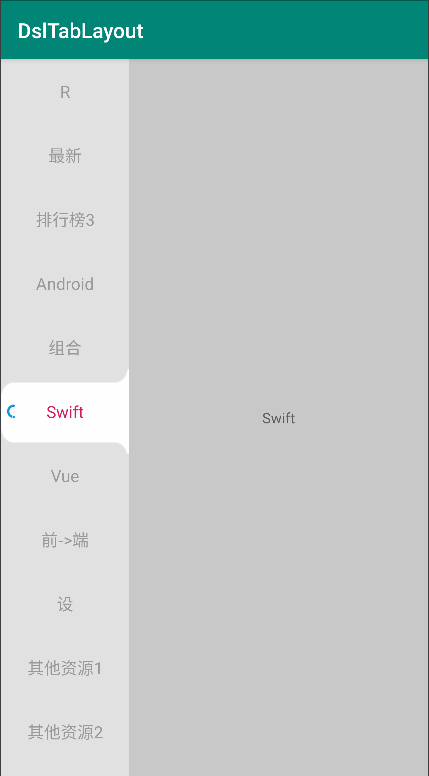
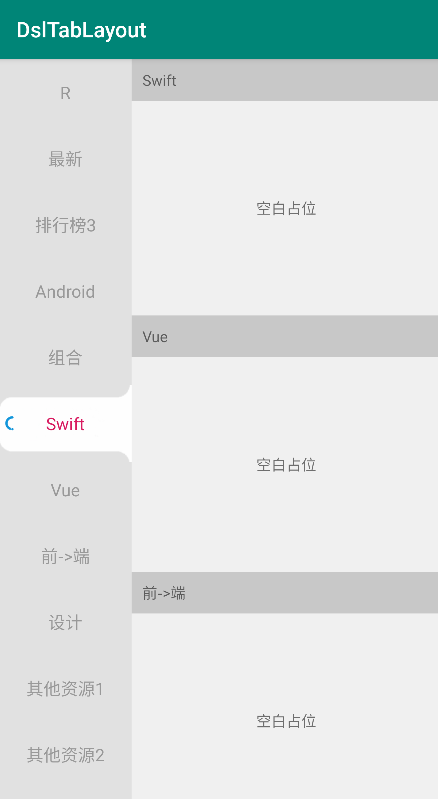
* update demo

diff --git a/Sample/src/main/java/com/angcyo/dsltablayout/demo/sample/VerticalHintActivity.kt b/Sample/src/main/java/com/angcyo/dsltablayout/demo/sample/VerticalHintActivity.kt
@@ -2,8 +2,14 @@ package com.angcyo.dsltablayout.demo.sample
 
 import android.os.Bundle
 import android.widget.TextView
+import androidx.recyclerview.widget.LinearLayoutManager
+import androidx.recyclerview.widget.RecyclerView
+import com.angcyo.dsladapter.eachChild
+import com.angcyo.dsladapter.initDslAdapter
+import com.angcyo.dsladapter.resetLayoutManager
 import com.angcyo.dsltablayout.demo.BaseActivity
 import com.angcyo.dsltablayout.demo.R
+import com.angcyo.dsltablayout.demo.dslitem.DslVerticalHintItem
 import com.angcyo.tablayout.DslTabLayout
 
 /**
@@ -24,11 +30,44 @@ class VerticalHintActivity : BaseActivity() {
             highlightHeightOffset = 20 * dpi
         }*/
 
-        val textView = find<TextView>(R.id.text_view)
+        val recyclerView = find<RecyclerView>(R.id.recycler_view)
+        recyclerView.apply {
+            resetLayoutManager("V")
+            initDslAdapter {
+                render {
+                    tabLayout.eachChild { index, child ->
+                        if (child is TextView) {
+                            DslVerticalHintItem()() {
+                                text = child.text
+                            }
+                        }
+                    }
+                }
+            }
+            addOnScrollListener(object : RecyclerView.OnScrollListener() {
+                override fun onScrolled(recyclerView: RecyclerView, dx: Int, dy: Int) {
+                    super.onScrolled(recyclerView, dx, dy)
+                    recyclerView.getChildAt(0)?.layoutParams?.let {
+                        if (it is RecyclerView.LayoutParams) {
+                            tabLayout.setCurrentItem(it.absoluteAdapterPosition)
+                        }
+                    }
+                }
+            })
+        }
+
         tabLayout.configTabLayoutConfig {
             onSelectItemView = { itemView, index, select, fromUser ->
                 if (select && itemView is TextView) {
-                    textView.text = itemView.text
+                    if (fromUser) {
+                        recyclerView?.layoutManager?.let {
+                            if (it is LinearLayoutManager) {
+                                it.scrollToPositionWithOffset(index, 0)
+                            } else {
+                                recyclerView.scrollToPosition(index)
+                            }
+                        }
+                    }
                 }
                 false
             }

diff --git a/Sample/src/main/java/com/angcyo/dsltablayout/demo/dslitem/DslCommonTabLayoutItem.kt b/Sample/src/main/java/com/angcyo/dsltablayout/demo/dslitem/DslCommonTabLayoutItem.kt
@@ -1,7 +1,10 @@
-package com.angcyo.dsltablayout.demo
+package com.angcyo.dsltablayout.demo.dslitem
 
 import com.angcyo.dsladapter.DslAdapterItem
 import com.angcyo.dsladapter.DslViewHolder
+import com.angcyo.dsltablayout.demo.R
+import com.angcyo.dsltablayout.demo.getDrawable2
+import com.angcyo.dsltablayout.demo.randomColor
 import com.angcyo.tablayout.DslTabLayout
 
 /**
@@ -10,9 +13,10 @@ import com.angcyo.tablayout.DslTabLayout
  * @author angcyo
  * @date 2019/11/23
  */
-class DslSlidingTabLayoutItem : DslAdapterItem() {
+class DslCommonTabLayoutItem : DslAdapterItem() {
+
     init {
-        itemLayoutId = R.layout.item_sliding_tab_layout
+        itemLayoutId = R.layout.item_common_tab_layout
     }
 
     override fun onItemBind(
@@ -23,7 +27,13 @@ class DslSlidingTabLayoutItem : DslAdapterItem() {
         super.onItemBind(itemHolder, itemPosition, adapterItem)
 
         itemHolder.v<DslTabLayout>(R.id.tab_layout)?.apply {
-            setBackgroundColor(randomColor())
+
+            if (itemLayoutId == R.layout.item_common_tab_layout2 ||
+                itemLayoutId == R.layout.item_common_vertical_tab_layout2
+            ) {
+                setBackgroundColor(randomColor())
+            }
+
             tabIndicator.indicatorDrawable =
                 itemHolder.itemView.context.getDrawable2(R.drawable.indicator_white_line)
         }

diff --git a/Sample/src/main/java/com/angcyo/dsltablayout/demo/dslitem/DslSegmentTabLayoutItem.kt b/Sample/src/main/java/com/angcyo/dsltablayout/demo/dslitem/DslSegmentTabLayoutItem.kt
@@ -1,7 +1,9 @@
-package com.angcyo.dsltablayout.demo
+package com.angcyo.dsltablayout.demo.dslitem
 
 import com.angcyo.dsladapter.DslAdapterItem
 import com.angcyo.dsladapter.DslViewHolder
+import com.angcyo.dsladapter.dpi
+import com.angcyo.dsltablayout.demo.R
 import com.angcyo.tablayout.DslTabLayout
 
 /**
@@ -10,10 +12,11 @@ import com.angcyo.tablayout.DslTabLayout
  * @author angcyo
  * @date 2019/11/23
  */
-class DslCommonTabLayoutItem : DslAdapterItem() {
+class DslSegmentTabLayoutItem : DslAdapterItem() {
 
     init {
-        itemLayoutId = R.layout.item_common_tab_layout
+        itemTopInsert = 10 * dpi
+        itemLayoutId = R.layout.item_segment_tab_layout
     }
 
     override fun onItemBind(
@@ -25,14 +28,6 @@ class DslCommonTabLayoutItem : DslAdapterItem() {
 
         itemHolder.v<DslTabLayout>(R.id.tab_layout)?.apply {
 
-            if (itemLayoutId == R.layout.item_common_tab_layout2 ||
-                itemLayoutId == R.layout.item_common_vertical_tab_layout2
-            ) {
-                setBackgroundColor(randomColor())
-            }
-
-            tabIndicator.indicatorDrawable =
-                itemHolder.itemView.context.getDrawable2(R.drawable.indicator_white_line)
         }
     }
 }

diff --git a/Sample/src/main/java/com/angcyo/dsltablayout/demo/dslitem/DslSlidingTabLayoutItem.kt b/Sample/src/main/java/com/angcyo/dsltablayout/demo/dslitem/DslSlidingTabLayoutItem.kt
@@ -1,8 +1,10 @@
-package com.angcyo.dsltablayout.demo
+package com.angcyo.dsltablayout.demo.dslitem
 
 import com.angcyo.dsladapter.DslAdapterItem
 import com.angcyo.dsladapter.DslViewHolder
-import com.angcyo.dsladapter.dpi
+import com.angcyo.dsltablayout.demo.R
+import com.angcyo.dsltablayout.demo.getDrawable2
+import com.angcyo.dsltablayout.demo.randomColor
 import com.angcyo.tablayout.DslTabLayout
 
 /**
@@ -11,11 +13,9 @@ import com.angcyo.tablayout.DslTabLayout
  * @author angcyo
  * @date 2019/11/23
  */
-class DslSegmentTabLayoutItem : DslAdapterItem() {
-
+class DslSlidingTabLayoutItem : DslAdapterItem() {
     init {
-        itemTopInsert = 10 * dpi
-        itemLayoutId = R.layout.item_segment_tab_layout
+        itemLayoutId = R.layout.item_sliding_tab_layout
     }
 
     override fun onItemBind(
@@ -26,7 +26,9 @@ class DslSegmentTabLayoutItem : DslAdapterItem() {
         super.onItemBind(itemHolder, itemPosition, adapterItem)
 
         itemHolder.v<DslTabLayout>(R.id.tab_layout)?.apply {
-
+            setBackgroundColor(randomColor())
+            tabIndicator.indicatorDrawable =
+                itemHolder.itemView.context.getDrawable2(R.drawable.indicator_white_line)
         }
     }
 }

diff --git a/Sample/src/main/java/com/angcyo/dsltablayout/demo/dslitem/DslVerticalHintItem.kt b/Sample/src/main/java/com/angcyo/dsltablayout/demo/dslitem/DslVerticalHintItem.kt
@@ -1,0 +1,33 @@
+package com.angcyo.dsltablayout.demo.dslitem
+
+import com.angcyo.dsladapter.DslAdapterItem
+import com.angcyo.dsladapter.DslViewHolder
+import com.angcyo.dsltablayout.demo.R
+
+/**
+ *
+ * Email:angcyo@126.com
+ * @author angcyo
+ * @date 2022/02/28
+ * Copyright (c) 2020 ShenZhen Wayto Ltd. All rights reserved.
+ */
+class DslVerticalHintItem : DslAdapterItem() {
+
+    var text: CharSequence? = null
+
+    init {
+        itemLayoutId = R.layout.vertical_hint_item
+    }
+
+    override fun onItemBind(
+        itemHolder: DslViewHolder,
+        itemPosition: Int,
+        adapterItem: DslAdapterItem,
+        payloads: List<Any>
+    ) {
+        super.onItemBind(itemHolder, itemPosition, adapterItem, payloads)
+
+        itemHolder.tv(R.id.text_view)?.text = text
+    }
+
+}

diff --git a/Sample/src/main/java/com/angcyo/dsltablayout/demo/BaseDslFragment.kt b/Sample/src/main/java/com/angcyo/dsltablayout/demo/BaseDslFragment.kt
@@ -14,7 +14,10 @@ import com.airbnb.lottie.LottieProperty
 import com.airbnb.lottie.SimpleColorFilter
 import com.airbnb.lottie.model.KeyPath
 import com.airbnb.lottie.value.LottieValueCallback
-import com.angcyo.dsladapter.*
+import com.angcyo.dsladapter.DslAdapter
+import com.angcyo.dsladapter.DslItemDecoration
+import com.angcyo.dsladapter.DslViewHolder
+import com.angcyo.dsladapter.HoverItemDecoration
 
 /**
  *
@@ -63,7 +66,7 @@ open class BaseDslFragment : Fragment() {
     }
 
     open fun renderAdapter(render: DslAdapter.() -> Unit) {
-        dslAdapter.render()
+        dslAdapter.render(action = render)
     }
 
     fun show(f: Fragment, hide: Fragment? = null) {

diff --git a/Sample/src/main/java/com/angcyo/dsltablayout/demo/dslitem/DslViewPagerItem.kt b/Sample/src/main/java/com/angcyo/dsltablayout/demo/dslitem/DslViewPagerItem.kt
@@ -1,4 +1,4 @@
-package com.angcyo.dsltablayout.demo
+package com.angcyo.dsltablayout.demo.dslitem
 
 import androidx.fragment.app.Fragment
 import androidx.fragment.app.FragmentManager
@@ -6,6 +6,8 @@ import androidx.fragment.app.FragmentStatePagerAdapter
 import androidx.viewpager.widget.ViewPager
 import com.angcyo.dsladapter.DslAdapterItem
 import com.angcyo.dsladapter.DslViewHolder
+import com.angcyo.dsltablayout.demo.R
+import com.angcyo.dsltablayout.demo.getColorFragmentList
 
 /**
  *

diff --git a/Sample/src/main/java/com/angcyo/dsltablayout/demo/BaseTabLayoutFragment.kt b/Sample/src/main/java/com/angcyo/dsltablayout/demo/BaseTabLayoutFragment.kt
@@ -5,6 +5,8 @@ import androidx.viewpager.widget.ViewPager
 import androidx.viewpager2.widget.ViewPager2
 import com.angcyo.dsladapter.DslAdapter
 import com.angcyo.dsladapter.DslViewHolder
+import com.angcyo.dsltablayout.demo.dslitem.DslViewPager2Item
+import com.angcyo.dsltablayout.demo.dslitem.DslViewPagerItem
 import com.angcyo.tablayout.DslTabLayout
 import com.angcyo.tablayout.delegate.ViewPager1Delegate
 import com.angcyo.tablayout.delegate2.ViewPager2Delegate

diff --git a/Sample/src/main/java/com/angcyo/dsltablayout/demo/dslitem/DslViewPager2Item.kt b/Sample/src/main/java/com/angcyo/dsltablayout/demo/dslitem/DslViewPager2Item.kt
@@ -1,10 +1,12 @@
-package com.angcyo.dsltablayout.demo
+package com.angcyo.dsltablayout.demo.dslitem
 
 import androidx.fragment.app.Fragment
 import androidx.viewpager2.adapter.FragmentStateAdapter
 import androidx.viewpager2.widget.ViewPager2
 import com.angcyo.dsladapter.DslAdapterItem
 import com.angcyo.dsladapter.DslViewHolder
+import com.angcyo.dsltablayout.demo.R
+import com.angcyo.dsltablayout.demo.getColorFragmentList
 
 /**
  *

diff --git a/Sample/src/main/java/com/angcyo/dsltablayout/demo/sample/HorizontalHintActivity.kt b/Sample/src/main/java/com/angcyo/dsltablayout/demo/sample/HorizontalHintActivity.kt
@@ -4,7 +4,7 @@ import android.os.Bundle
 import android.widget.TextView
 import com.angcyo.dsladapter.DslViewHolder
 import com.angcyo.dsltablayout.demo.BaseActivity
-import com.angcyo.dsltablayout.demo.DslViewPagerItem
+import com.angcyo.dsltablayout.demo.dslitem.DslViewPagerItem
 import com.angcyo.dsltablayout.demo.R
 import com.angcyo.tablayout.DslTabLayout
 

diff --git a/Sample/src/main/java/com/angcyo/dsltablayout/demo/SlidingFragment.kt b/Sample/src/main/java/com/angcyo/dsltablayout/demo/SlidingFragment.kt
@@ -8,6 +8,7 @@ import com.angcyo.dsladapter.DslAdapter
 import com.angcyo.dsladapter.DslViewHolder
 import com.angcyo.dsladapter.dp
 import com.angcyo.dsladapter.dpi
+import com.angcyo.dsltablayout.demo.dslitem.DslSlidingTabLayoutItem
 import com.angcyo.tablayout.DslTabIndicator
 import com.angcyo.tablayout.DslTabLayout
 import com.angcyo.tablayout.isHorizontal

diff --git a/Sample/src/main/java/com/angcyo/dsltablayout/demo/CommonFragment.kt b/Sample/src/main/java/com/angcyo/dsltablayout/demo/CommonFragment.kt
@@ -5,6 +5,7 @@ import android.os.Bundle
 import com.angcyo.dsladapter.DslAdapter
 import com.angcyo.dsladapter.DslViewHolder
 import com.angcyo.dsladapter.dpi
+import com.angcyo.dsltablayout.demo.dslitem.DslCommonTabLayoutItem
 import com.angcyo.tablayout.DslTabIndicator
 import com.angcyo.tablayout.DslTabLayout
 import com.angcyo.tablayout.isHorizontal
